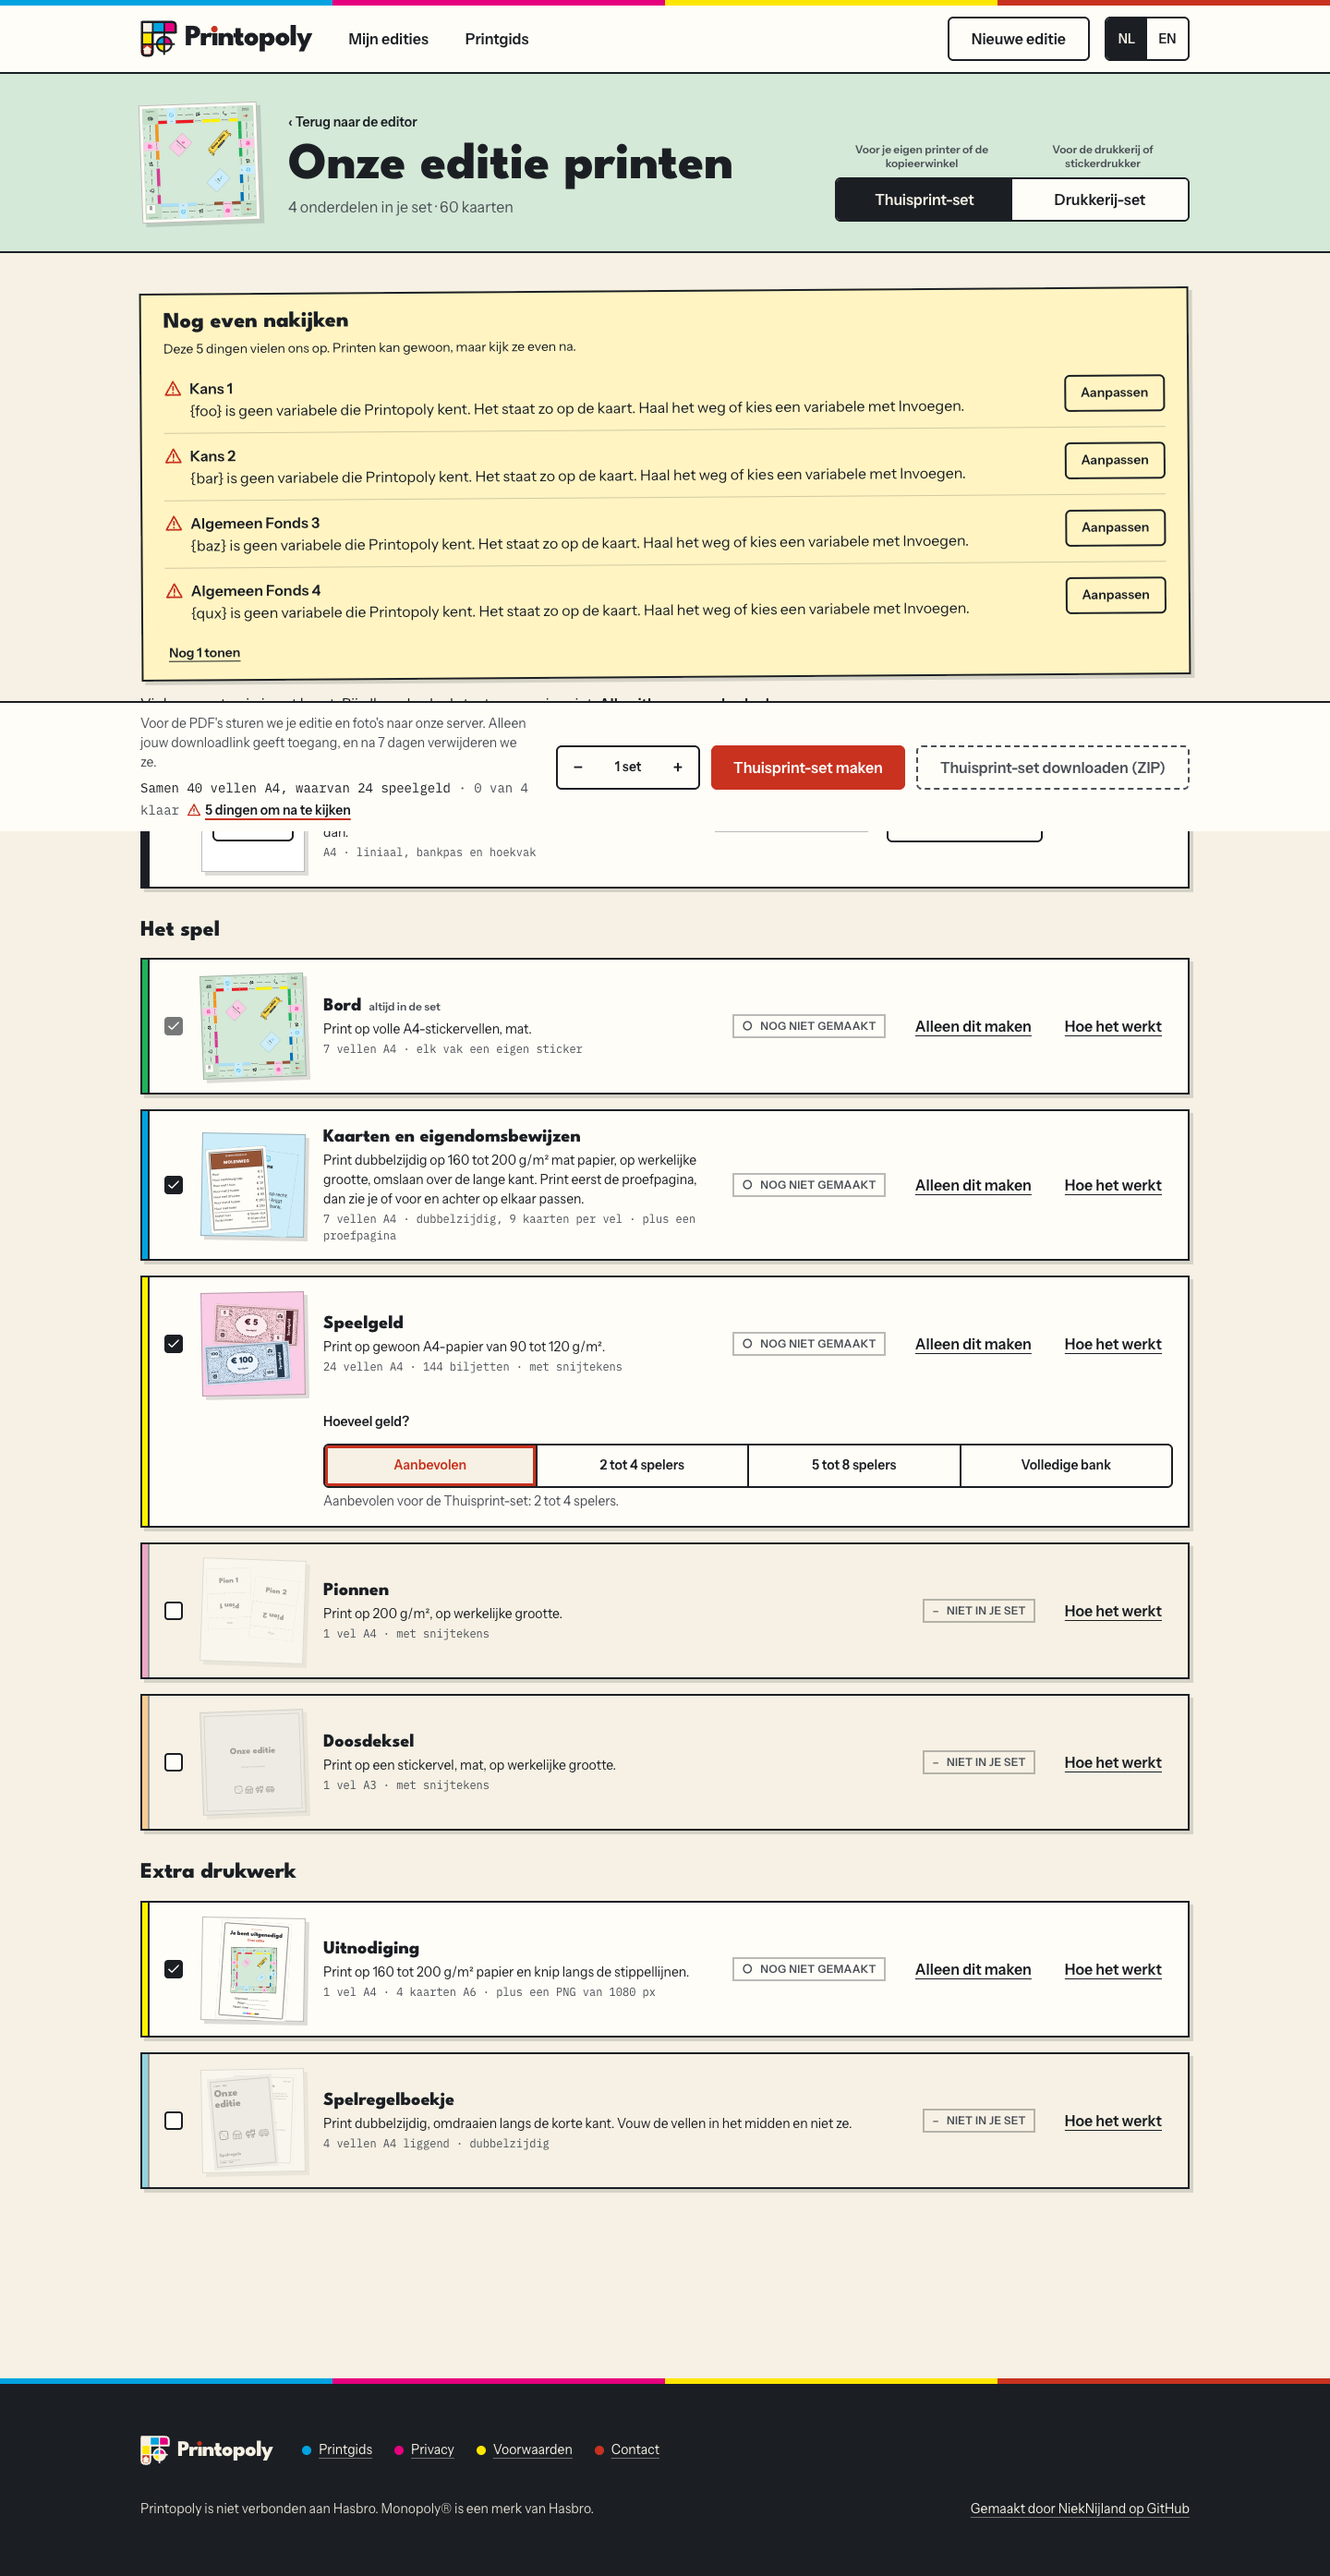
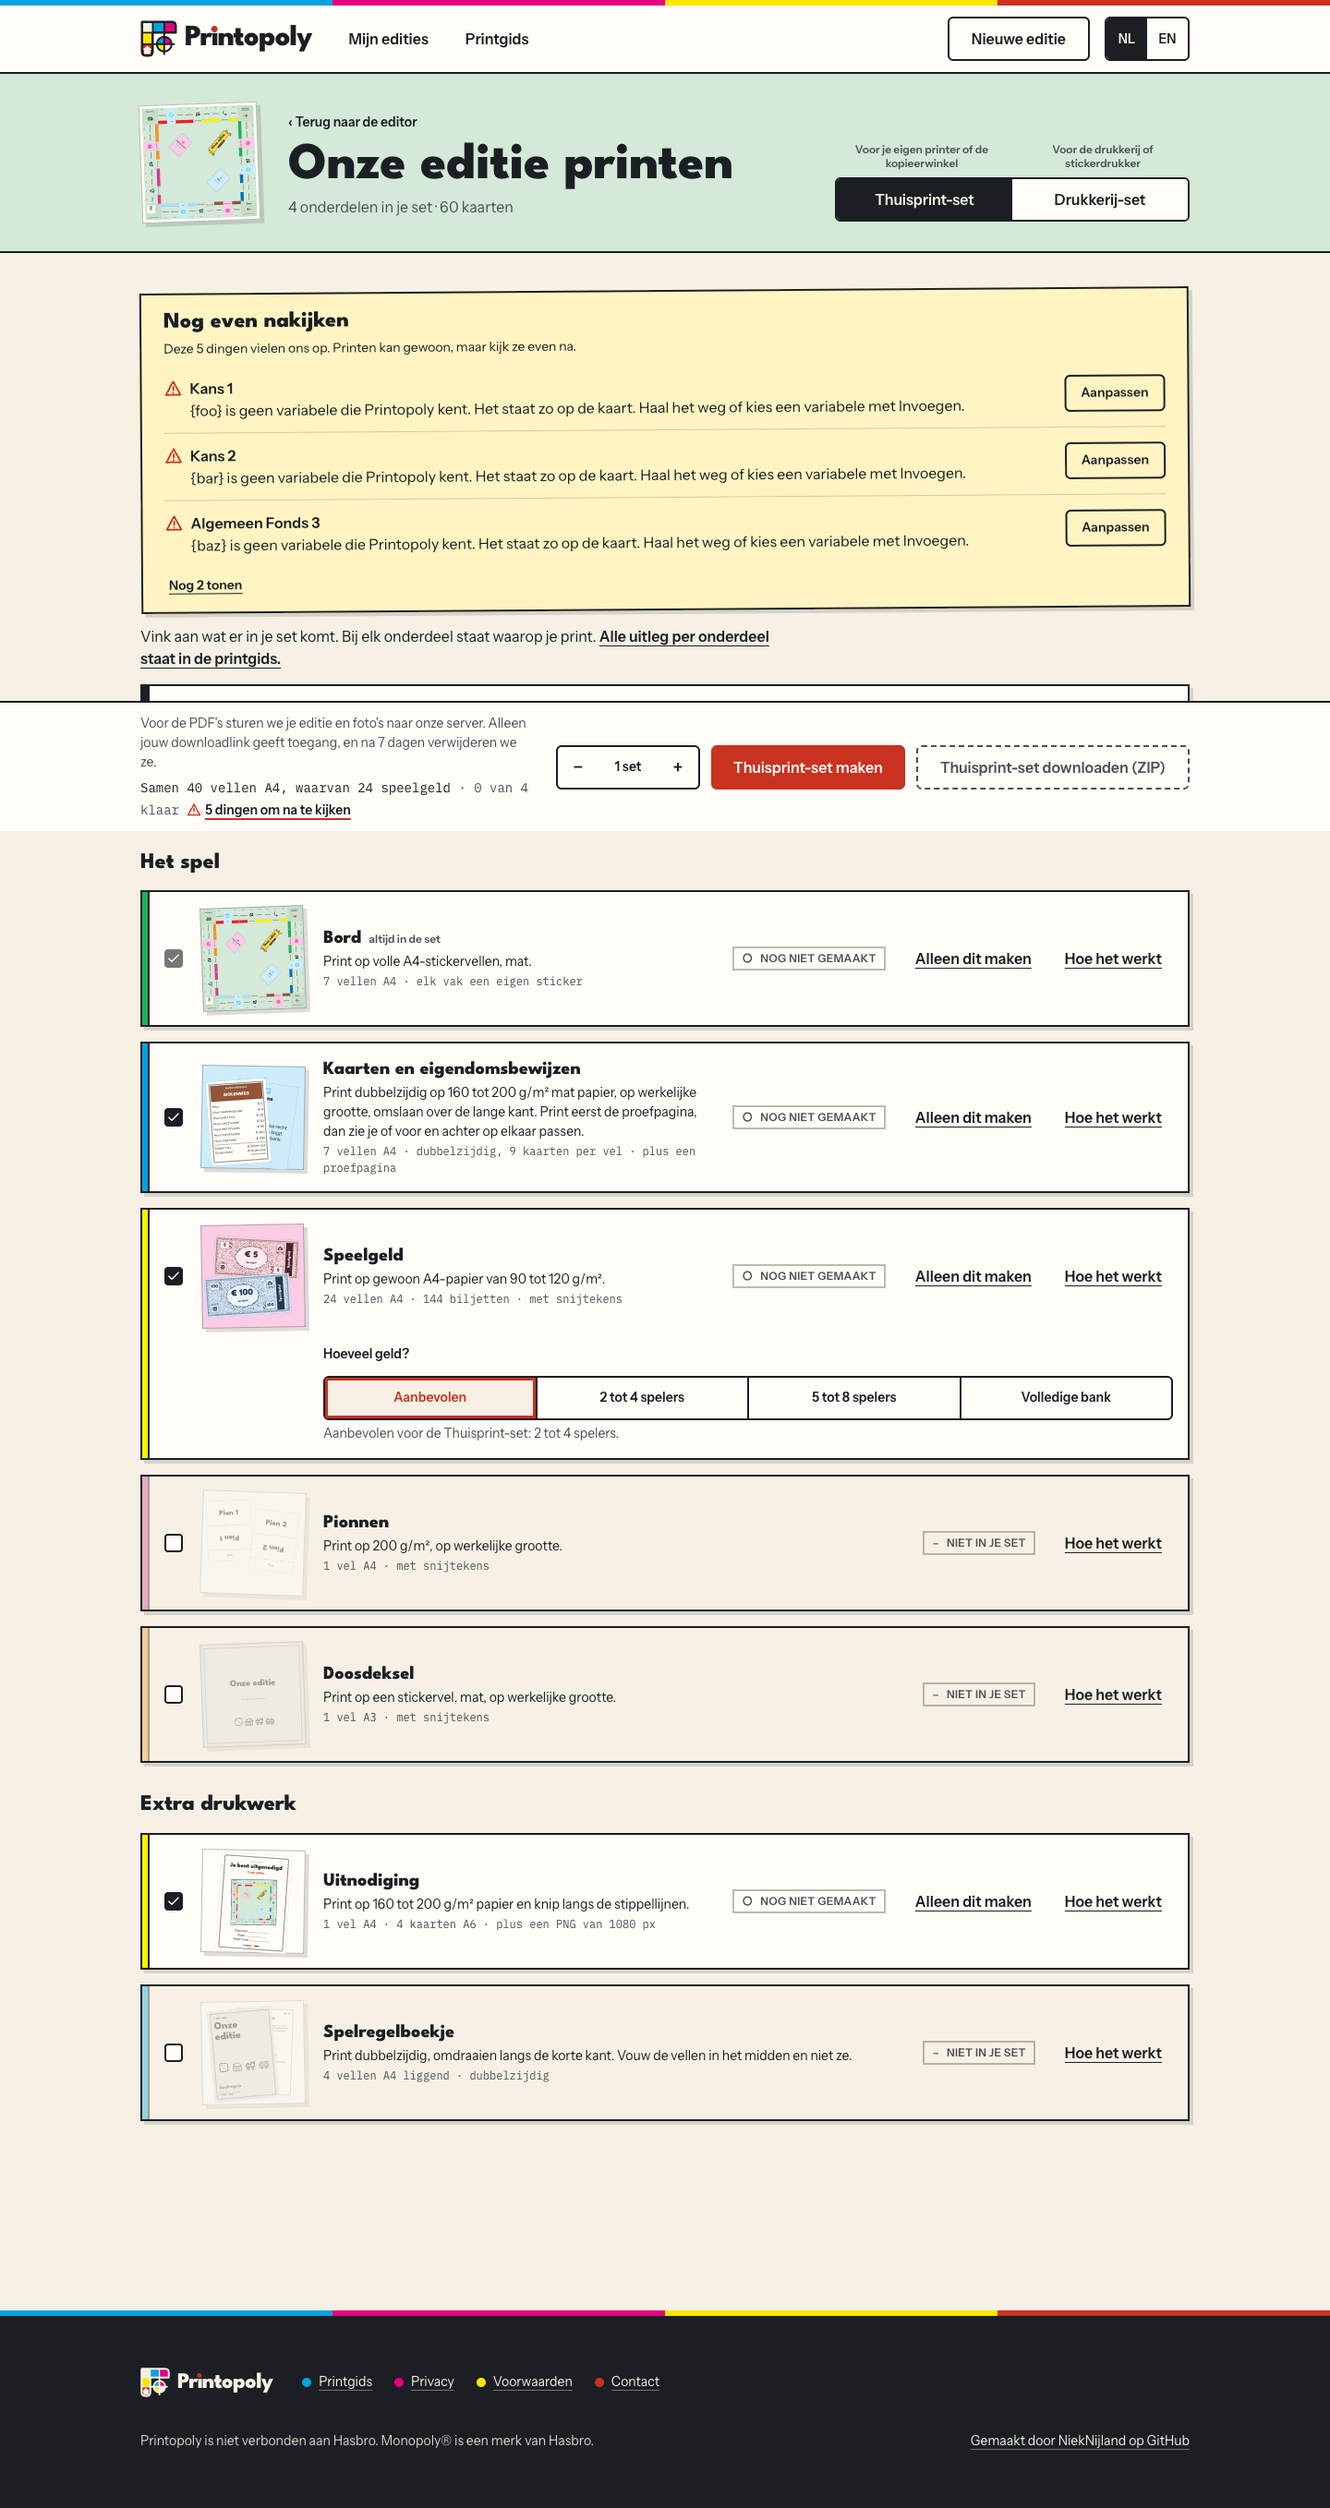
docs: B210 bijgewerkt (onderdelen van de editie, ?element en ?check) en schermen na van r5/print

diff --git a/docs/beslissingen.md b/docs/beslissingen.md
@@ -210,6 +210,6 @@ Append-only. Wijzig een besluit met een nieuwe rij en "Vervangt Bxx". Herkomst: 
 | B204 | Het spelregelboekje is geen element in de editor meer, alleen een rij op de printpagina. Het volgt de editie (woorden, munt, bedragen, huisregels). | Het had in de editor alleen een fotoveld en de inhoud komt toch uit de editie. | Claude (Niek gedelegeerd) |
 | B205 | De printgids is de enige bron voor printuitleg. Instructie-PDF's en het bestelblad worden uit dezelfde teksten gemaakt; de printpagina linkt ernaar in plaats van eigen uitleg te herhalen. | Printuitleg stond op vier plekken en liep uit elkaar. | Claude (Niek gedelegeerd) |
 | B206 | Anonieme telling per functie op de server: alleen een teller per gebeurtenis per dag, geen cookies, geen IP, geen editie-inhoud. Staat in de privacyverklaring. | Zonder echte gebruikscijfers rust elke schrapkeuze op testers met scripts. | Claude (Niek gedelegeerd) |
-| B210 | Uitwerking van B197, B198 en B199 op de printpagina. (1) Wat er in de set komt, staat op de editie als `printSelection: { set: 'home' \| 'printer', parts: string[] }` (`PrintSelection` in `lib/edition/types.ts`, `app/Edition/PrintSelection.php`), in IndexedDB en in het account. `parts` noemt de printonderdelen `board`, `cards`, `money`, `tokens`, `box_lid`, `invitation` en `rules_booklet`; het bord zit er altijd in. Ontbreekt de keuze, dan geldt `defaultPrintSelection`: de onderdelen die de editie in `parts` aan had, op de Thuisprint-set. De editor leest de keuze met `printSelectionOf(edition)` uit `lib/print/selection.ts` en schrijft hem nooit. Een onbekend onderdeel of een verkeerde vorm valt weg, nooit een fout. (2) De keuze geldt voor beide sets; de printjob krijgt hem als `skipped` per set. Een nieuwe revisie die alleen de keuze veranderde, houdt de printjob van deze browser (`carryPrintJob`), zodat de pagina en Mijn edities hem als actueel blijven zien. (3) Het onderdeel Kaarten heeft altijd alle eigendomsbewijzen en beide stapels; de oude schakelaars `deeds` en `cards` tellen bij het printen niet meer. (4) De printpagina opent op `?set=`, anders op de set die deze browser of de editie voor deze editie koos, anders op de Thuisprint-set. Thuisprint staat links. (5) "Nog even nakijken" staat bovenaan de printpagina, drie meldingen in beeld en de rest achter "Nog N tonen"; elke melding opent de editor met `?open={element}&field={veld}`. De editor leest dat één keer en haalt het van het adres; `?open=edition&field=edition.name` opent het editiepaneel bij de naam (zo opent Dupliceren op Mijn edities de kopie). De melding in de printbalk springt naar die lijst. | Eén afspraak tussen de printpagina en de editor, en geen dubbele upload of "verouderd" door alleen een vinkje. | Opdracht r5/print (detail binnen B197 tot B199) |
+| B210 | Uitwerking van B197, B198 en B199 op de printpagina. (1) Wat er in de set komt, staat op de editie als `printSelection: { set: 'home' \| 'printer', parts: string[] }` (`PrintSelection` in `lib/edition/types.ts`, `app/Edition/PrintSelection.php`), in IndexedDB en in het account. `parts` noemt de onderdelen van de editie (`board`, `deeds`, `cards`, `houseRules`, `money`, `pawns`, `boxLid`, `invitation`, `rulesBooklet`), zodat de editor ze leest (`partsInSet` op r5/editor); de printpagina groepeert ze in haar rijen, en de rij Kaarten is `deeds`, `cards` en `houseRules`. Het bord zit er altijd in. Ontbreekt de keuze, dan geldt `defaultPrintSelection`: de onderdelen die de editie in `parts` aan had, op de Thuisprint-set; de editor rekent dan alles tot de set. De editor schrijft de keuze nooit. Een onbekend onderdeel of een verkeerde vorm valt weg, nooit een fout. (2) De keuze geldt voor beide sets; de printjob krijgt hem als `skipped` per set, en de editie gaat met alle onderdelen aan naar de server, zodat de foto's van elk onderdeel meegaan. De huisregelkaart print met de kaarten zodra er een regel op staat; de oude schakelaar `houseRules` telt niet meer. Een nieuwe revisie die alleen de keuze veranderde, houdt de printjob van deze browser (`carryPrintJob`), zodat de pagina en Mijn edities hem als actueel blijven zien. (3) Het onderdeel Kaarten heeft altijd alle eigendomsbewijzen en beide stapels; de oude schakelaars `deeds` en `cards` tellen bij het printen niet meer. (4) De printpagina opent op `?set=`, anders op de set die deze browser of de editie voor deze editie koos, anders op de Thuisprint-set. Thuisprint staat links. (5) "Nog even nakijken" staat bovenaan de printpagina, drie meldingen in beeld en de rest achter "Nog N tonen"; alleen meldingen van onderdelen in de set; elke melding opent de editor met `?element={element}&field={veld}`, een melding zonder element met `?check=1` (de parameters van r5/editor). Dupliceren op Mijn edities opent de kopie met `?edition=general&field=edition.name`. De melding in de printbalk springt naar die lijst. | Eén afspraak tussen de printpagina en de editor, en geen dubbele upload of "verouderd" door alleen een vinkje. | Opdracht r5/print (detail binnen B197 tot B199) |
 | B211 | Uitwerking van B200, B204 en B205. (1) Per onderdeel is er één tekst, `resources/content/{taal}/instructies/{onderdeel}.md`: titel, intro, `## Drukkerij-set`, `## Thuisprint-set`, eventueel een deel voor beide, en de precieze gegevens voor het bestelblad onder `## Bestelblad drukkerij` en `## Bestelblad thuisprint` (Engels: `Order sheet print shop`, `Order sheet home print`). De instructie-PDF neemt de set en de delen voor beide, het bestelblad de bestelbladtabel, de printgids alles behalve de tabellen, ingevuld met de getallen van de standaardeditie (`PartText`, `PrintGuide`). `printgids.md` houdt alleen wat voor alles geldt, met `{parts}` waar de onderdelen komen; elk onderdeel heeft het anker `#part-{onderdeel}`. (2) De printpagina zegt per rij alleen wat je bestelt of waarop je print, met "Hoe het werkt" naar dat anker; de knop Instructies per rij en het blok "Bij de drukkerij" zijn weg. Het spelregelboekje en de uitnodiging zijn gewone rijen onder Extra drukwerk. (3) Dobbelstenen en huisjes en hotels zijn weg uit printonderdelen, instructies, bestelblad, printgids en landing (ook de dobbelsteen op de landingstekening); een oude job of een oud PDF-bestand met die onderdelen wordt overgeslagen. (4) De landing heeft geen blok Samen maken en geen bordsticker-stappen meer, de sets staan met Thuisprint eerst op de tafelkleur, en stap 3 is "Kijk het na". Overal heet de knop "Nieuwe editie"; op tablet staat "Mijn edities" naast het mapje. | Eén tekst per onderdeel kan niet meer uit elkaar lopen; de printpagina wordt korter. | Opdracht r5/print (detail binnen B200, B202, B204 en B205) |
 | B212 | Uitwerking van B206. De teller staat in MongoDB-collectie `feature_counts` als `{event, day, count}` (UTC-dag, uniek per event en dag). De browser stuurt alleen `edition_created`, `template_chosen` en `photo_added` naar `POST /api/count` (buiten de webgroep: geen sessie, geen cookies, geen CSRF; `credentials: 'omit'`; 60 per minuut per adres, alleen in de throttle-cache), via `countFeature` in `lib/feature-count.ts`, aangeroepen door de repository. De server telt zelf `print_{onderdeel}` als een onderdeel klaar is, `share_image_made` en `box_created`. Elke andere naam wordt genegeerd en het antwoord is altijd leeg. | Een telling zonder iets over wie, en zonder dat de browser iets anders kan laten tellen. | Opdracht r5/print (detail binnen B206) |
